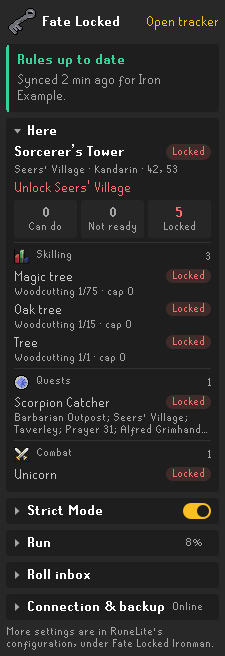
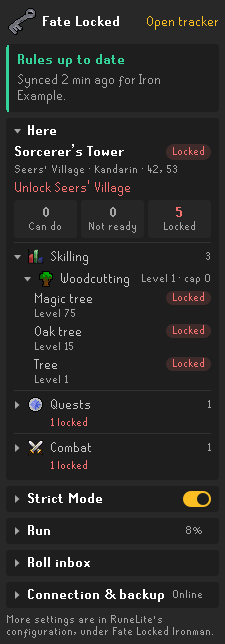
Show the RuneLite Here card's folds and in-game checks in the guide
After the owner's review on 28 Sept, the plugin's Here card opens category
by category and Skilling skill by skill, and it decides in game every row
the tracker can't see the requirements of.

- The Here chapter says so. The glossary's Needs checking is now only the
  Roll inbox's count of events RuneLite can't be sure of.
- sidebar-here.png is rendered again from the plugin at 7b46f7a: Skilling
  open at Woodcutting, with callouts for the categories and the skills.
  The manifest records it.
- The Stage 3 release in What's New says so, and that the world map's
  line now goes all the way round the unlocked land.

diff --git a/data/runeliteGuide.ts b/data/runeliteGuide.ts
@@ -258,11 +258,13 @@ export const RUNELITE_GUIDE_SCREENSHOTS: readonly GuideScreenshot[] = [
     src: '/guides/runelite/sidebar-here.png',
     source: 'rendered',
     title: 'Here, in a locked place',
-    alt: 'The Here card for Sorcerer’s Tower: Locked, Unlock Seers’ Village, the counts, and its skilling, quest and combat rows.',
+    alt: 'The Here card for Sorcerer’s Tower: Locked, Unlock Seers’ Village, the counts, Skilling open at Woodcutting, and Quests and Combat closed, each saying what it holds.',
     callouts: [
-      callout('status', 1, 0.84, 0.23, 'Status', 'The place’s status in a word: here, Locked.'),
+      callout('status', 1, 0.84, 0.24, 'Status', 'The place’s status in a word: here, Locked.'),
       callout('reason', 2, 0.5, 0.29, 'Why', 'The tracker’s reason, in its own words.'),
-      callout('counts', 3, 0.5, 0.33, 'Counts', 'What you can do here, what isn’t ready, and what’s locked.'),
+      callout('counts', 3, 0.5, 0.34, 'Counts', 'What you can do here, what isn’t ready, and what’s locked.'),
+      callout('categories', 4, 0.55, 0.4, 'Categories', 'Each opens and closes, and says what it holds while closed.'),
+      callout('skills', 5, 0.43, 0.43, 'Skills', 'Skilling opens skill by skill, with your level and cap.'),
     ],
   },
   {
@@ -612,7 +614,7 @@ export const RUNELITE_GUIDE_GLOSSARY: readonly GuideGlossaryItem[] = [
   },
   {
     term: RUNELITE_TERMS.NEEDS_CHECKING,
-    definition: 'Something RuneLite can’t decide on its own; check it in the tracker.',
+    definition: 'An event RuneLite noticed but can’t be sure of, counted in the Roll inbox.',
   },
   {
     term: RUNELITE_TERMS.UNCHARTED,
@@ -755,7 +757,8 @@ export const RUNELITE_GUIDE_CHAPTERS: readonly GuideChapter[] = [
     summary: 'Here explains your rules for the place you’re standing in.',
     paragraphs: [
       'When you’re logged in, the card names the place, its region and chunk, and its status in a word, with the tracker’s reason when it is locked or not ready.',
-      'Below, it counts what you can do, what isn’t ready and what’s locked, then lists the place’s quests, shops, banks, skilling, combat, travel, farming and activities, five of each with +N more.',
+      'Below, it counts what you can do, what isn’t ready and what’s locked. Then come the place’s skilling, banks, shops, quests, combat, travel, farming and activities, each on a line that opens and closes and, while closed, says what it holds. Skilling opens skill by skill, each with your level and cap. What you leave open stays open as you walk, and an open list shows five rows with +N more.',
+      'When the tracker can’t see a requirement, such as a quest started, quest points, a free-to-play world or a light source you carry, RuneLite checks it in game. Every row says Can do, Not ready or Locked, and a row that isn’t ready names only what’s left.',
     ],
     bullets: [
       `${RUNELITE_TERMS.CAN_DO}: your run can do it now.`,

diff --git a/data/changelog.ts b/data/changelog.ts
@@ -25,7 +25,8 @@ export const CHANGELOG_RELEASES = [
     sections: {
       added: [
         'The RuneLite plugin has a new sidebar. A status card says whether your rules are current and for this character, with the one thing to do about it, above cards for Here, Strict Mode, Run, Roll inbox, and Connection & backup.',
-        'In game, chunk borders are drawn where locked land starts, the world map and minimap show locked land as fog, a locked area alerts once rather than every chunk, and the HUD is Compact or Detailed.',
+        'In game, chunk borders are drawn where locked land starts, the world map and minimap show locked land as fog with a line all the way round your unlocked land, a locked area alerts once rather than every chunk, and the HUD is Compact or Detailed.',
+        'Here, the card for the place you’re standing in, opens and closes category by category, and Skilling skill by skill with the game’s own skill icons. Where the tracker can’t see a requirement, such as a quest started or a light source you carry, RuneLite checks it in game, so every row says Can do, Not ready or Locked.',
       ],
       changed: [
         'Every RuneLite setting now lives in RuneLite’s configuration, under Fate Locked Ironman, with a colour-blind safe set of colours. Your old choices carry over.',

diff --git a/data/changelog.test.ts b/data/changelog.test.ts
@@ -28,7 +28,8 @@ describe('authored changelog releases', () => {
     expect(release?.title).toBe('RuneLite Plugin: New Sidebar and Display');
     expect(release?.sections.added).toEqual([
       expect.stringMatching(/new sidebar.*status card.*Here, Strict Mode, Run, Roll inbox, and Connection & backup/),
-      expect.stringMatching(/chunk borders.*fog.*alerts once.*Compact or Detailed/),
+      expect.stringMatching(/chunk borders.*fog.*all the way round.*alerts once.*Compact or Detailed/),
+      expect.stringMatching(/Here.*opens and closes.*Skilling skill by skill.*checks it in game.*Can do, Not ready or Locked/),
     ]);
     expect(release?.sections.changed).toEqual([
       expect.stringMatching(/RuneLite’s configuration.*colour-blind safe.*old choices carry over/),
